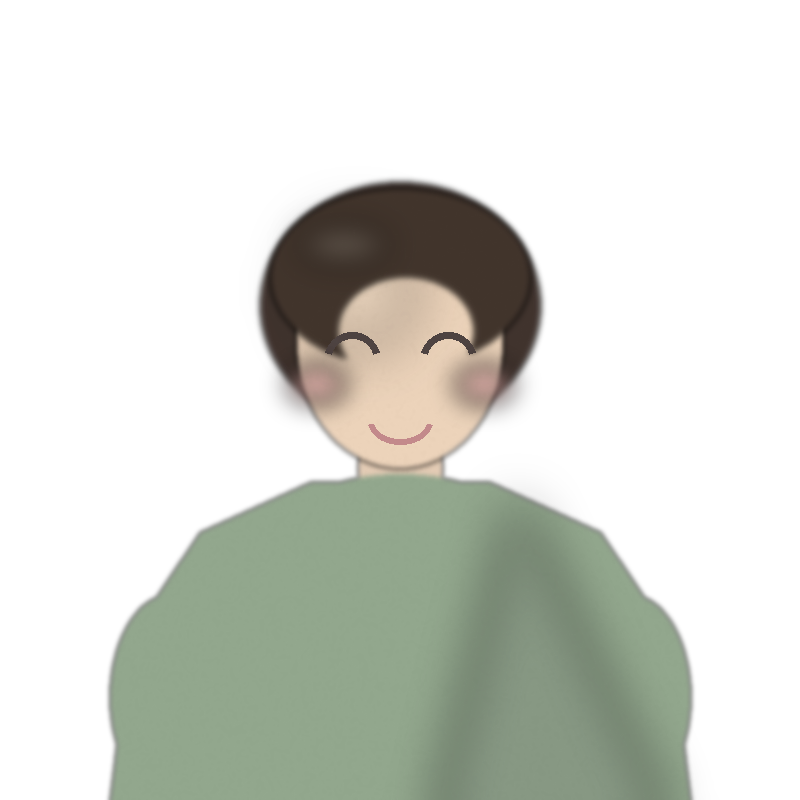
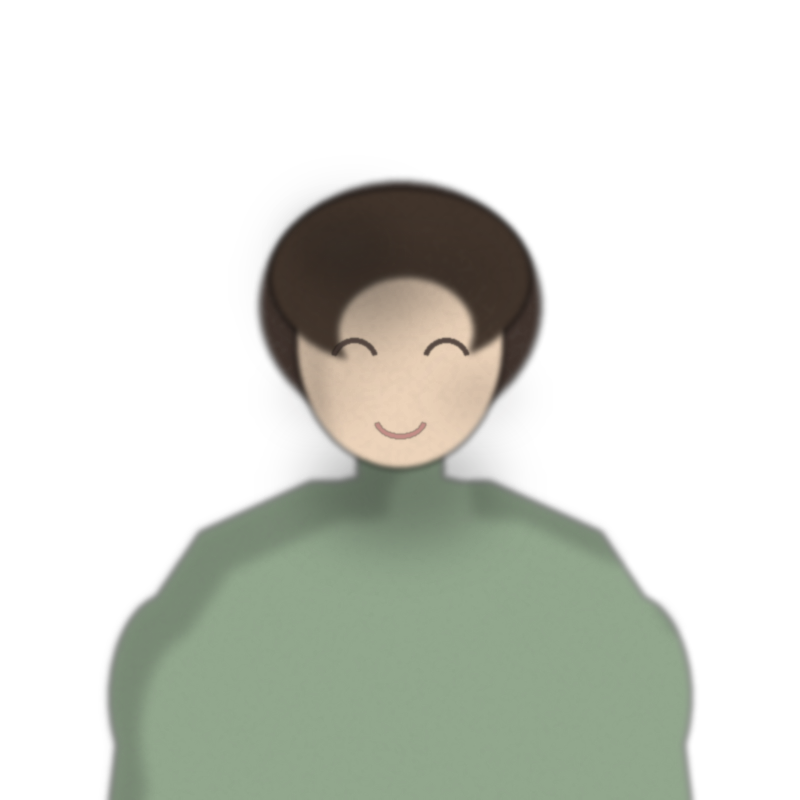
fix: 人物を、花と同じ筆で描き直した
「人物だけ質感が浮いて見える」というご指摘。原因ははっきりしていた。

**人物は `watercolor_mask` を一度も通していなかった。**
`ellipse` を塗って `GaussianBlur` を掛けていただけ。
ぼかしと、にじみは別のもので、ぼかした縁はなめらかで均一 ──
つまり「印刷」に見える。花はすべてこの筆を通っているので、
人物だけが別の絵に見えていた。

直したのは4つ。

  にじみ  すべての面を watercolor_mask に通す
  光      左上ひとつ。かたちの右下に影の側を作る（_shade_side）
  重なり  髪→顔、顔→首に接する影を落とす（花の contact_shadow と同じ考え）
  顔      目を 28px→20px、白目の光を硬い点からにじみへ、
          頬を直径56pxの桃色の玉から薄く広い赤みへ、線もわずかににじませる

■ 一度、やりすぎた

花びらと同じ bleed=0.22 を顔に掛けたら、頬いちめんが粒立って
**汚れて**見えた。花びらでは顔料に見えるムラが、広い面では砂に見える。

**にじみの量は、かたちの大きさで変えること。**

    花びら  0.22
    髪      0.12〜0.13
    服      0.09     （いちばん広い面）
    顔      0.05     （いちばん見られる面）

影も同じで、最初は顔が暗く沈んだので半分に落とした。

画風は変えていない。3Dレンダリング調にはしない ── 水彩の店内と
画風が二つになり、花より人が目を引く恐れがあるため。
目指したのは「人物が主役になる」ことではなく、
**「花屋の空気の中に自然に存在している人物」**。

Claude-Session: https://claude.ai/code/session_01NKV57SwEiDA72EkGzXeu8N

Changed region(s): [[0.125, 0.3438, 0.6562, 1.0], [0.5312, 0.6562, 0.8438, 1.0], [0.7188, 0.6562, 0.7812, 0.6875]]

diff --git a/tools/placeholder_art/props.py b/tools/placeholder_art/props.py
@@ -19,8 +19,9 @@ import random
 
 from PIL import Image, ImageDraw, ImageFilter
 
-from .paint import (RGB, draw_blob, draw_leaf, draw_petal, hex_rgb, jitter,
-                    linear_gradient, mix, paper_texture, rotate_points, shade)
+from .paint import (LIGHT_ANGLE, RGB, draw_blob, draw_leaf, draw_petal, hex_rgb,
+                    jitter, linear_gradient, mix, paper_texture, rotate_points,
+                    shade, watercolor_mask)
 
 PROP_SIZE = (512, 512)
 CARD_SIZE = (512, 384)
@@ -364,11 +365,78 @@ def render_card(seed: int = 0) -> Image.Image:
 # お客さま
 # --------------------------------------------------------------------------
 
+def _wc(size, shape_fn, color: RGB, seed: int, softness: float = 3.0,
+        bleed: float = 0.22) -> Image.Image:
+    """
+    水彩の一筆。
+
+    花とまったく同じ描き方です。かたちを塗ってから、
+    輪郭をにじませ、顔料のムラを乗せます。
+
+    人物だけが浮いて見えていた原因は、ここでした。
+    人物は `ellipse` を塗って `GaussianBlur` を掛けていただけで、
+    **`watercolor_mask` を一度も通していませんでした。**
+    ぼかしと、にじみは、別のものです。
+    ぼかした縁はなめらかで均一 ── つまり「印刷」に見えます。
+
+    ただし **にじみの量は、かたちの大きさで変えること。**
+    花びらと同じ 0.22 を顔に掛けたら、頬いちめんが粒立って
+    **汚れて**見えました。花びらでは顔料に見えるムラが、
+    広い面では砂に見えます。広い面ほど、うんと弱く。
+    """
+    mask = Image.new("L", size, 0)
+    shape_fn(ImageDraw.Draw(mask))
+    return _paint(size, watercolor_mask(mask, seed=seed, softness=softness,
+                                        bleed=bleed), color)
+
+
+def _paint(size, mask: Image.Image, color: RGB) -> Image.Image:
+    layer = Image.new("RGBA", size, (0, 0, 0, 0))
+    layer.paste(Image.new("RGB", size, color), (0, 0), mask)
+    return layer
+
+
+def _shade_side(size, mask_fn, color: RGB, seed: int, amount: float = 0.22):
+    """
+    左上の光に対する、影の側。
+
+    店内も花も光源は左上ひとつ。人物だけ全体が均一に明るいと、
+    **同じ部屋にいるように見えません。**
+    かたちの右下側だけを、うすく落とします。
+    """
+    mask = Image.new("L", size, 0)
+    mask_fn(ImageDraw.Draw(mask))
+    soft = watercolor_mask(mask, seed=seed + 7, softness=6.0, bleed=0.1)
+    # 光と反対（右下）へずらしたものだけを残す＝陰になる側
+    dx = int(round(math.sin(math.radians(LIGHT_ANGLE + 180)) * max(size) * 0.06))
+    dy = int(round(-math.cos(math.radians(LIGHT_ANGLE + 180)) * max(size) * 0.06))
+    moved = Image.new("L", size, 0)
+    moved.paste(soft, (dx, dy))
+    from PIL import ImageChops
+    only = ImageChops.subtract(soft, moved)
+    return _paint(size, only.point(lambda v: int(v * amount)), shade(color, -0.55))
+
+
 def render_customer(spec: dict, mood: str, seed: int = 0) -> Image.Image:
-    """やわらかな水彩のバストアップ。どの表情も穏やかであること。"""
+    """
+    やわらかな水彩のバストアップ。どの表情も穏やかであること。
+
+    **人物も、花と同じ筆で描きます。**
+
+    直したのは4つです。
+      にじみ  すべての面を `watercolor_mask` に通す（ぼかしではなく、にじみ）
+      光      左上ひとつ。かたちの右下に影の側を作る
+      重なり  髪→顔、顔→首、頭→体に、接する影を落とす
+      顔      目を小さく、白目のハイライトをやわらげ、頬を薄く
+
+    目指すのは「人物が主役になる」ことではなく、
+    **「花屋の空気の中に自然に存在している人物」**です。
+    だから、描き込むのではなく、**なじませます。**
+    """
     rng = random.Random(seed + hash(spec["id"] + mood) % 9000)
     w, h = CUSTOMER_SIZE
-    img = Image.new("RGBA", (w, h), (0, 0, 0, 0))
+    size = (w, h)
+    img = Image.new("RGBA", size, (0, 0, 0, 0))
     fx, fy = w * 0.5, h * 0.42          # 顔の中心
     skin = hex_rgb(spec.get("skin", "#F2D9C4"))
     hair = hex_rgb(spec["hair"])
@@ -376,81 +444,118 @@ def render_customer(spec: dict, mood: str, seed: int = 0) -> Image.Image:
     face_r = 118
     hair_len = spec.get("hair_len", 140)
 
-    # 体（首 → なで肩 → 腕）
-    body = Image.new("RGBA", (w, h), (0, 0, 0, 0))
-    bd = ImageDraw.Draw(body)
-    bd.ellipse([fx - 42, fy + 84, fx + 42, fy + 180], fill=(*shade(skin, -0.05), 255))
-    bd.polygon([(fx - 290, h), (fx - 270, fy + 300), (fx - 200, fy + 196),
-                (fx - 90, fy + 146), (fx + 90, fy + 146), (fx + 200, fy + 196),
-                (fx + 270, fy + 300), (fx + 290, h)], fill=(*cloth, 255))
-    bd.ellipse([fx - 290, fy + 258, fx - 168, h], fill=(*cloth, 255))
-    bd.ellipse([fx + 168, fy + 258, fx + 290, h], fill=(*cloth, 255))
-    bd.ellipse([fx - 112, fy + 138, fx + 112, fy + 240], fill=(*cloth, 255))
-    img.alpha_composite(body.filter(ImageFilter.GaussianBlur(2.4)))
+    def body_shape(d):
+        d.ellipse([fx - 42, fy + 84, fx + 42, fy + 180], fill=255)
+        d.polygon([(fx - 290, h), (fx - 270, fy + 300), (fx - 200, fy + 196),
+                   (fx - 90, fy + 146), (fx + 90, fy + 146), (fx + 200, fy + 196),
+                   (fx + 270, fy + 300), (fx + 290, h)], fill=255)
+        d.ellipse([fx - 290, fy + 258, fx - 168, h], fill=255)
+        d.ellipse([fx + 168, fy + 258, fx + 290, h], fill=255)
+        d.ellipse([fx - 112, fy + 138, fx + 112, fy + 240], fill=255)
 
-    shadow = Image.new("RGBA", (w, h), (0, 0, 0, 0))
-    ImageDraw.Draw(shadow).polygon([(fx + 40, h), (fx + 116, fy + 160), (fx + 260, h)],
-                                   fill=(*shade(cloth, -0.22), 150))
-    img.alpha_composite(shadow.filter(ImageFilter.GaussianBlur(24)))
+    def back_shape(d):
+        d.ellipse([fx - face_r - 22, fy - face_r - 36,
+                   fx + face_r + 22, fy + face_r * 0.30 + hair_len], fill=255)
 
-    # 後ろ髪
-    back = Image.new("RGBA", (w, h), (0, 0, 0, 0))
-    ImageDraw.Draw(back).ellipse(
-        [fx - face_r - 22, fy - face_r - 36, fx + face_r + 22, fy + face_r * 0.30 + hair_len],
-        fill=(*shade(hair, -0.10), 255))
-    img.alpha_composite(back.filter(ImageFilter.GaussianBlur(3.0)))
+    def face_shape(d):
+        d.ellipse([fx - face_r * 0.88, fy - face_r,
+                   fx + face_r * 0.88, fy + face_r * 1.12], fill=255)
 
-    # 顔
-    face = Image.new("RGBA", (w, h), (0, 0, 0, 0))
-    ImageDraw.Draw(face).ellipse([fx - face_r * 0.88, fy - face_r,
-                                  fx + face_r * 0.88, fy + face_r * 1.12],
-                                 fill=(*skin, 255))
-    img.alpha_composite(face.filter(ImageFilter.GaussianBlur(2.6)))
-    lit = Image.new("RGBA", (w, h), (0, 0, 0, 0))
-    ImageDraw.Draw(lit).ellipse([fx - face_r * 0.8, fy - face_r * 0.9,
-                                 fx + face_r * 0.1, fy + face_r * 0.1],
-                                fill=(*shade(skin, 0.30), 120))
-    img.alpha_composite(lit.filter(ImageFilter.GaussianBlur(28)))
+    def fringe_shape(d):
+        d.ellipse([fx - face_r - 12, fy - face_r - 30,
+                   fx + face_r + 12, fy + face_r * 0.26], fill=255)
+        d.ellipse([fx - face_r * 0.52, fy - face_r * 0.50,
+                   fx + face_r * 0.62, fy + face_r * 0.42], fill=0)
 
-    # 前髪
-    fringe = Image.new("RGBA", (w, h), (0, 0, 0, 0))
-    fd = ImageDraw.Draw(fringe)
-    fd.ellipse([fx - face_r - 12, fy - face_r - 30, fx + face_r + 12, fy + face_r * 0.26],
-               fill=(*hair, 255))
-    fd.ellipse([fx - face_r * 0.52, fy - face_r * 0.50, fx + face_r * 0.62, fy + face_r * 0.42],
-               fill=(0, 0, 0, 0))
-    img.alpha_composite(fringe.filter(ImageFilter.GaussianBlur(3.0)))
-    gloss = Image.new("RGBA", (w, h), (0, 0, 0, 0))
-    ImageDraw.Draw(gloss).ellipse([fx - face_r * 0.85, fy - face_r * 0.92,
-                                   fx - face_r * 0.10, fy - face_r * 0.62],
-                                  fill=(*shade(hair, 0.42), 130))
-    img.alpha_composite(gloss.filter(ImageFilter.GaussianBlur(15)))
+    # ---- 体
+    # 服はいちばん広い面。にじみはほとんど掛けない。
+    img.alpha_composite(_wc(size, body_shape, cloth, rng.randint(0, 9999), 3.4, 0.09))
+    img.alpha_composite(_shade_side(size, body_shape, cloth, rng.randint(0, 9999), 0.20))
 
-    # 表情（穏やかな線だけで描く）
-    fd = ImageDraw.Draw(img)
-    ink = shade(hair, -0.30)
-    ex, ey, er = 48, 24, 28
+    # ---- 後ろ髪。顔より先に置いて、あとで顔が上に乗る
+    img.alpha_composite(_wc(size, back_shape, shade(hair, -0.10),
+                            rng.randint(0, 9999), 3.6, 0.12))
+
+    # ---- 首もとの影。頭が体に接しているところ
+    neck = Image.new("L", size, 0)
+    ImageDraw.Draw(neck).ellipse([fx - 88, fy + face_r * 0.86, fx + 88, fy + 202], fill=84)
+    img.alpha_composite(_paint(size, neck.filter(ImageFilter.GaussianBlur(26)),
+                               shade(cloth, -0.42)))
+
+    # ---- 顔
+    # 顔はいちばん見られる面。ムラは、ほぼ入れない。
+    img.alpha_composite(_wc(size, face_shape, skin, rng.randint(0, 9999), 3.0, 0.05))
+    img.alpha_composite(_shade_side(size, face_shape, skin, rng.randint(0, 9999), 0.14))
+    # 左上からの光
+    lit = Image.new("L", size, 0)
+    ImageDraw.Draw(lit).ellipse([fx - face_r * 0.86, fy - face_r * 0.96,
+                                 fx + face_r * 0.06, fy + face_r * 0.06], fill=110)
+    img.alpha_composite(_paint(size, lit.filter(ImageFilter.GaussianBlur(30)),
+                               shade(skin, 0.34)))
+
+    # ---- 前髪
+    img.alpha_composite(_wc(size, fringe_shape, hair, rng.randint(0, 9999), 3.2, 0.13))
+    # 前髪が顔に落とす影。重なりの厚みはここで出る（花と同じ考え方）
+    brow_shadow = Image.new("L", size, 0)
+    ImageDraw.Draw(brow_shadow).ellipse(
+        [fx - face_r * 0.76, fy - face_r * 0.70, fx + face_r * 0.76, fy - face_r * 0.24],
+        fill=54)
+    img.alpha_composite(_paint(size, brow_shadow.filter(ImageFilter.GaussianBlur(20)),
+                               shade(skin, -0.40)))
+    # 髪のつや。左上だけ、うすく
+    gloss = Image.new("L", size, 0)
+    ImageDraw.Draw(gloss).ellipse([fx - face_r * 0.84, fy - face_r * 0.94,
+                                   fx - face_r * 0.12, fy - face_r * 0.60], fill=104)
+    img.alpha_composite(_paint(size, gloss.filter(ImageFilter.GaussianBlur(18)),
+                               shade(hair, 0.40)))
+
+    # ---- 表情
+    #
+    # 目を小さくしました。もとは 28px の黒い楕円に白い点で、
+    # 水彩の顔に**判子**が押してあるように見えていました。
+    # 線を細く、色を髪より薄い墨にして、白目の光はにじませます。
+    feat = Image.new("RGBA", size, (0, 0, 0, 0))
+    fd = ImageDraw.Draw(feat)
+    ink = shade(hair, -0.18)
+    ex, ey = 46, 26
+    lip = shade(hex_rgb("#C0817E"), -0.05)
     if mood == "happy":
         for side in (-1, 1):
+            er = 24
             fd.arc([fx + side * ex - er, fy + ey - er, fx + side * ex + er, fy + ey + er],
-                   start=196, end=344, fill=(*ink, 235), width=7)
-        fd.arc([fx - 32, fy + 62, fx + 32, fy + 108], start=8, end=172,
-               fill=(*shade(hex_rgb("#C97F80"), -0.1), 220), width=6)
+                   start=200, end=340, fill=(*ink, 220), width=5)
+        fd.arc([fx - 26, fy + 64, fx + 26, fy + 102], start=12, end=168,
+               fill=(*lip, 200), width=5)
     else:
         for side in (-1, 1):
-            fd.ellipse([fx + side * ex - 14, fy + ey - 18, fx + side * ex + 14, fy + ey + 18],
-                       fill=(*ink, 225))
-            fd.ellipse([fx + side * ex - 8, fy + ey - 14, fx + side * ex + 2, fy + ey - 4],
-                       fill=(255, 253, 246, 200))
-            fd.arc([fx + side * ex - 21, fy + ey - 38, fx + side * ex + 21, fy + ey - 4],
-                   start=190, end=350, fill=(*ink, 200), width=5)
-        fd.arc([fx - 24, fy + 66, fx + 24, fy + 96], start=14, end=166,
-               fill=(*shade(hex_rgb("#C97F80"), -0.1), 200), width=5)
-    for side in (-1, 1):
-        draw_blob(img, (fx + side * 84, fy + 48), 28, 18, hex_rgb("#EEB3AE"), rng,
-                  softness=12, bleed=0.0)
+            fd.ellipse([fx + side * ex - 10, fy + ey - 13, fx + side * ex + 10, fy + ey + 13],
+                       fill=(*ink, 210))
+            fd.arc([fx + side * ex - 18, fy + ey - 34, fx + side * ex + 18, fy + ey - 6],
+                   start=196, end=344, fill=(*ink, 165), width=4)
+        fd.arc([fx - 20, fy + 68, fx + 20, fy + 94], start=16, end=164,
+               fill=(*lip, 180), width=4)
+    # 顔立ちも、ほんの少しにじませる。線だけ硬いと、そこだけ別の絵に見える。
+    img.alpha_composite(feat.filter(ImageFilter.GaussianBlur(0.9)))
 
-    return paper_texture(img, seed=seed, strength=0.06)
+    if mood != "happy":
+        # 白目の光。硬い点ではなく、にじんだ明かり
+        spark = Image.new("L", size, 0)
+        sd = ImageDraw.Draw(spark)
+        for side in (-1, 1):
+            sd.ellipse([fx + side * ex - 7, fy + ey - 11, fx + side * ex - 1, fy + ey - 5],
+                       fill=170)
+        img.alpha_composite(_paint(size, spark.filter(ImageFilter.GaussianBlur(1.6)),
+                                   (255, 253, 246)))
+
+    # 頬。もとは直径56pxの桃色の玉が二つ乗っていた。うんと薄く、広く。
+    cheek = Image.new("L", size, 0)
+    cd = ImageDraw.Draw(cheek)
+    for side in (-1, 1):
+        cd.ellipse([fx + side * 80 - 34, fy + 44, fx + side * 80 + 34, fy + 76], fill=52)
+    img.alpha_composite(_paint(size, cheek.filter(ImageFilter.GaussianBlur(20)),
+                               hex_rgb("#E6A9A4")))
+
+    return paper_texture(img, seed=seed, strength=0.045)
 
 
 # --------------------------------------------------------------------------
